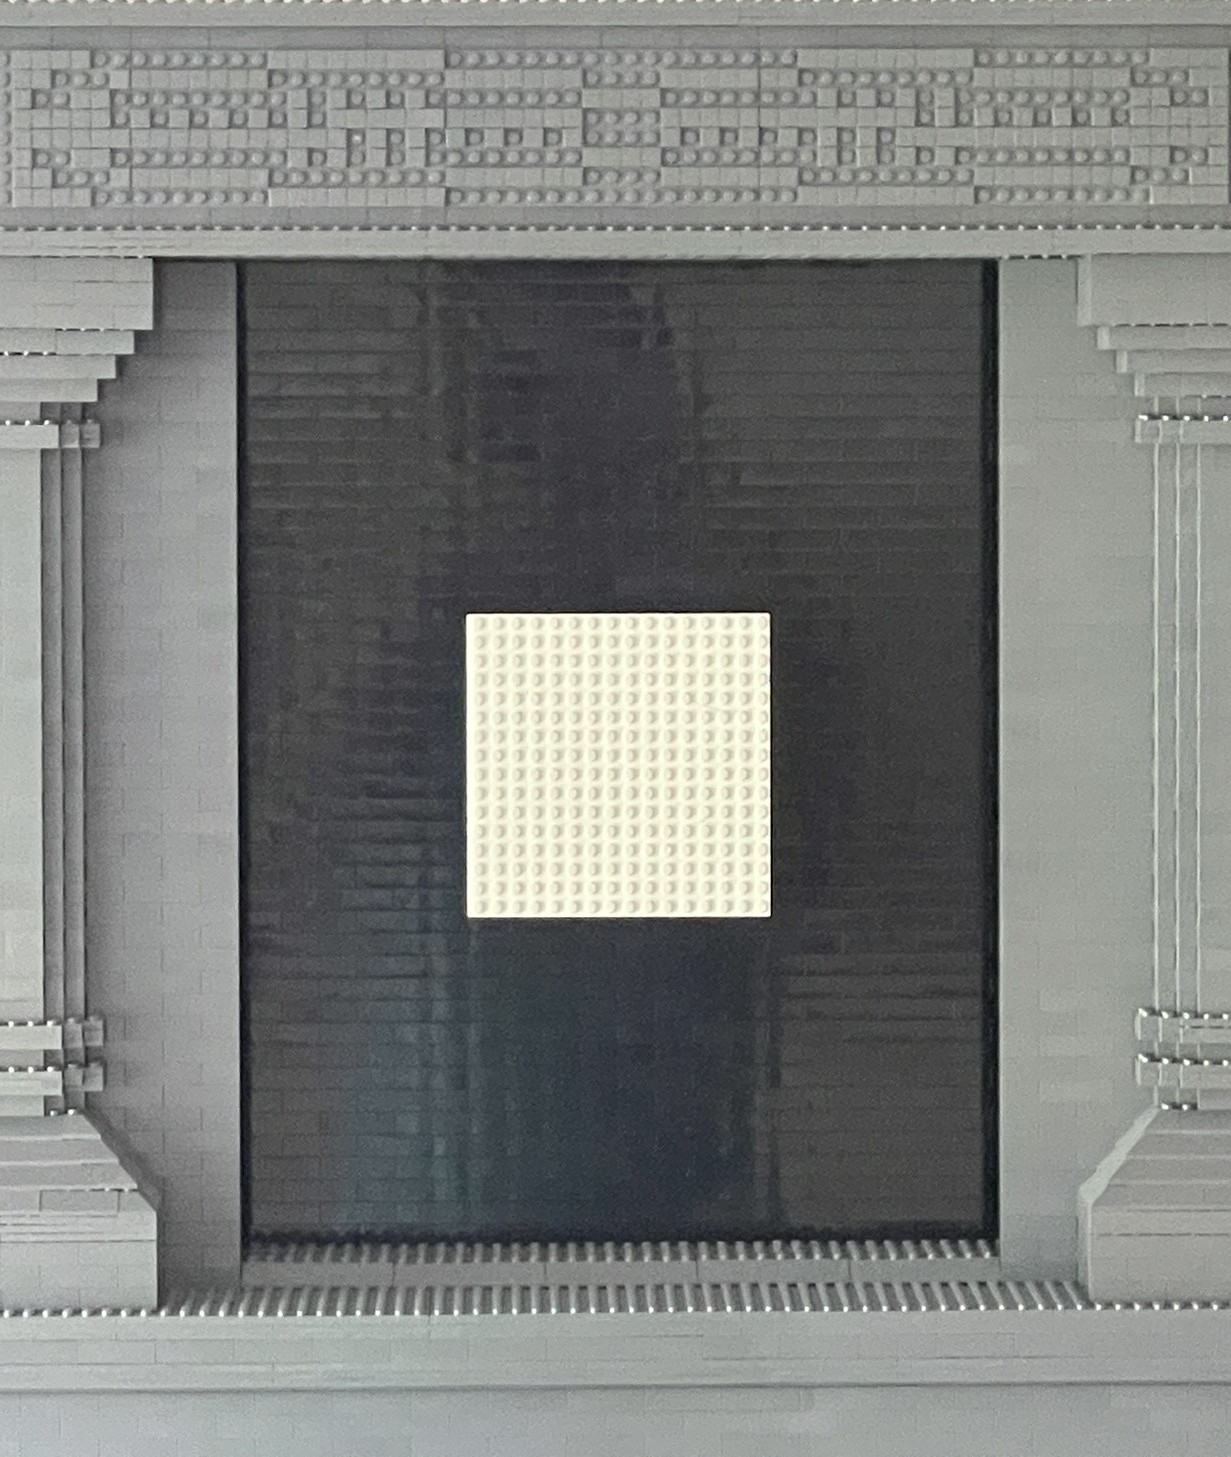
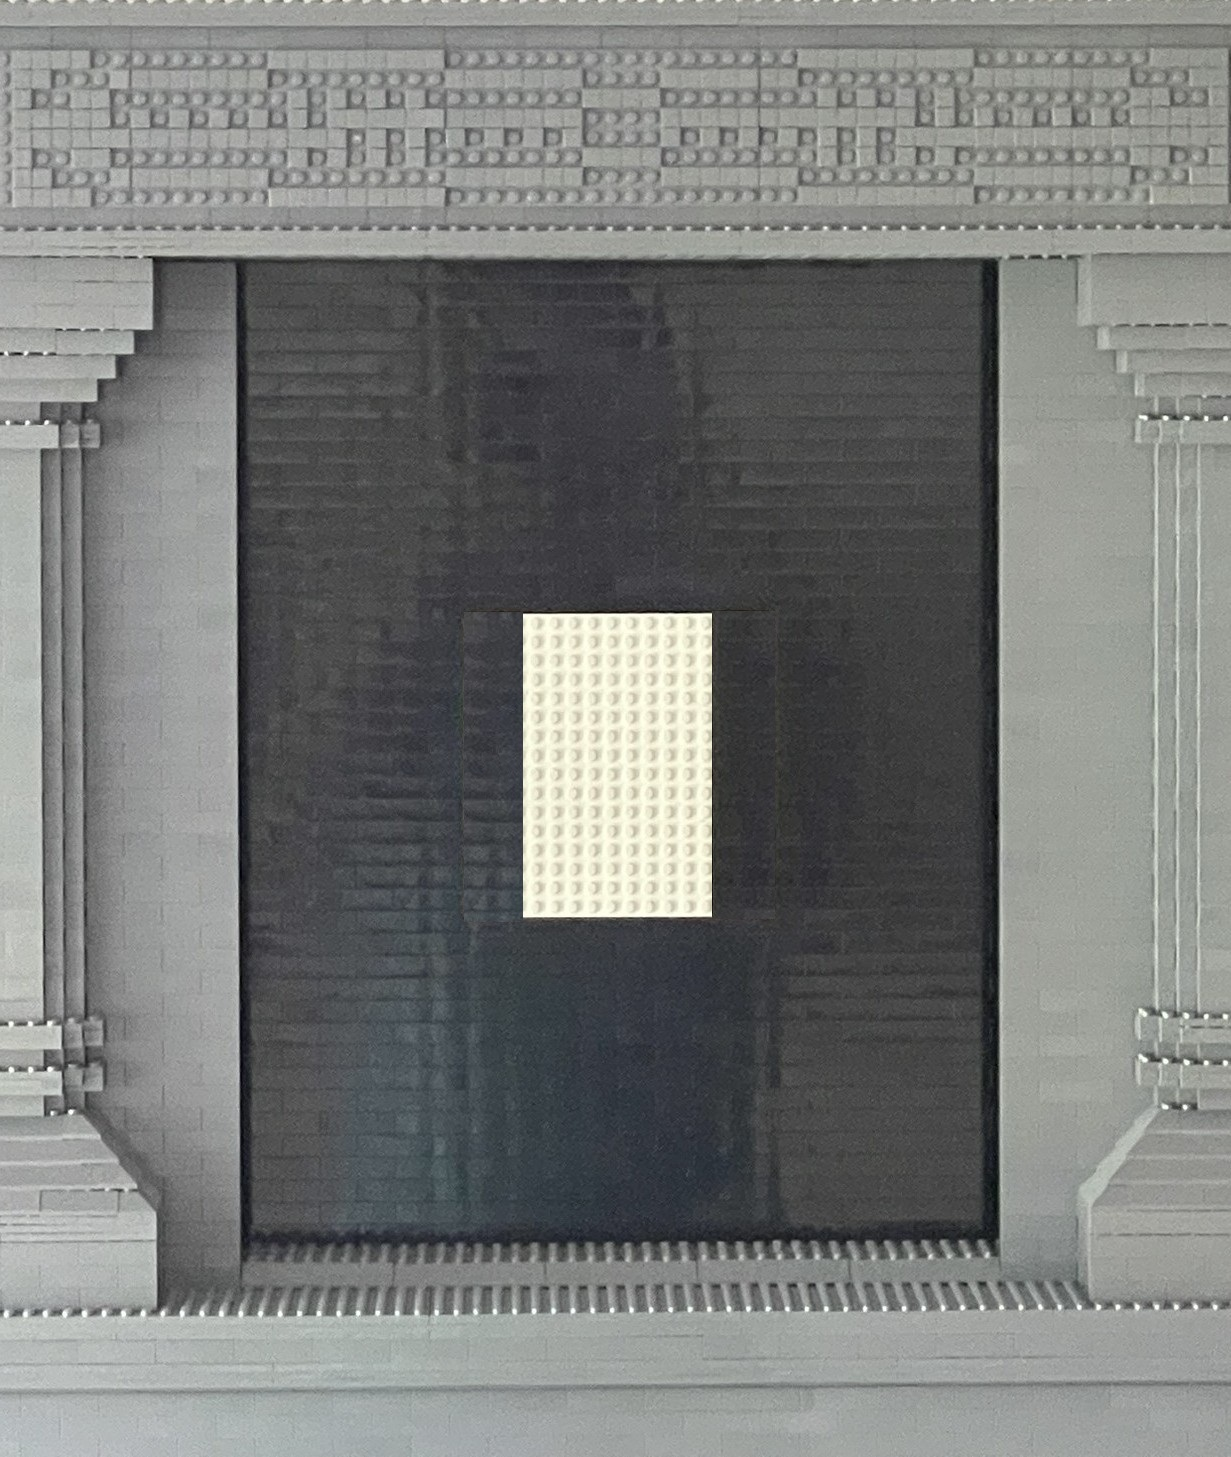
Specify & clarify gallery pages

Changed region(s): [[0.5556, 0.4015, 0.6483, 0.6486], [0.3704, 0.4015, 0.4322, 0.6486]]

diff --git a/specs/006-hall-of-faces-gallery/spec.md b/specs/006-hall-of-faces-gallery/spec.md
@@ -1,0 +1,126 @@
+# Feature Specification: Phase 006 — Hall of Faces Gallery Pages
+
+**Feature Branch**: `006-hall-of-faces-gallery`
+
+**Created**: 2026-06-05
+
+**Status**: Draft
+
+**Input**: User description: "Let's create three galleries: a public one called 'Hall of Faces', a private one called 'Hall of Nobles', and an event-specific one called 'BrickCon 2026'. Each gallery is reachable as a direct subdirectory (e.g., faceplate.me/hall-of-faces). The gallery header matches the home page with the gallery name as title, a provided description as subtitle, and 'Add your face to this gallery' as the third link back to faceplate.me with a Hall parameter. Below the header: a series of Hall.JPEG copies with 0–6 submitted mosaics composited into cubbies (2 rows × 3 columns). Gallery submissions must persist across site rebuilds."
+
+---
+
+## User Scenarios & Testing *(mandatory)*
+
+### User Story 1 — View a Gallery Page (Priority: P1)
+
+A visitor navigates directly to a gallery URL (e.g., `faceplate.me/hall-of-faces`) and sees the Hall of Faces gallery. The page shows the gallery name, its description, and a call-to-action link. Below the header, one or more composite images fill the page — each is a photograph of the physical Hall of Faces structure with up to six submitted face mosaics placed into the dark cubby alcoves (arranged in two rows of three). Unfilled cubbies show the dark alcove background. The gallery is always up to date with the latest submissions.
+
+**Why this priority**: The gallery display is the primary visitor experience and must exist before submission flows can be validated end to end.
+
+**Independent Test**: Navigate to `/hall-of-faces`. Verify the header matches the gallery name and description. Verify at least one Hall.JPEG composite appears. If submissions exist, verify they appear in the cubbies left-to-right, top-to-bottom. If no submissions exist, verify the Hall.JPEG still appears with all cubbies dark.
+
+**Acceptance Scenarios**:
+
+1. **Given** a visitor opens `/hall-of-faces`, **When** the page loads, **Then** the header shows "Hall of Faces" as the title, the gallery description as the subtitle, and "Add your face to this gallery ↗" as the third element.
+2. **Given** the gallery has N submissions, **When** the page renders, **Then** `ceil(max(N,1) / 6)` Hall.JPEG composites are shown — each with up to 6 mosaics placed in cubbies in order, unfilled cubbies showing the bare alcove.
+3. **Given** the gallery header's call-to-action link is clicked, **When** the user arrives at faceplate.me, **Then** the "Add to Group" field on the faceplate.me face-shaping sidebar is pre-filled with the gallery's slug (e.g., "hall-of-faces").
+4. **Given** multiple Hall.JPEG composites are shown, **When** a viewer scrolls down, **Then** subsequent composites continue the submission sequence (composites 1, 2, 3… fill with mosaics 1–6, 7–12, 13–18…).
+
+---
+
+### User Story 2 — Browse All Three Galleries (Priority: P2)
+
+The three galleries each have their own dedicated URL and independent content. Hall of Nobles is accessible only to visitors who know the direct URL or are given the link — it does not appear in any public index or navigation. BrickCon 2026 is accessible to attendees via a direct link distributed at the event.
+
+**Why this priority**: Each gallery must be independently routable and independently populated; this confirms the routing and gallery-config model scales to multiple galleries.
+
+**Independent Test**: Navigate to `/hall-of-faces`, `/hall-of-nobles`, and `/brickcon-2026` separately. Verify each shows its own name, description, and independent submission set. Verify `/hall-of-nobles` is not linked from any public page (header, footer, or home page navigation).
+
+**Acceptance Scenarios**:
+
+1. **Given** three galleries are configured, **When** `/hall-of-faces`, `/hall-of-nobles`, and `/brickcon-2026` are visited, **Then** each shows its own name, description, and submissions independently.
+2. **Given** Hall of Nobles is configured as unlisted, **When** a visitor browses the public home page or Hall of Faces gallery, **Then** there is no link or mention of `/hall-of-nobles`.
+3. **Given** a submission is made to "brickcon-2026," **When** the Hall of Faces gallery is viewed, **Then** the submitted mosaic does not appear there.
+
+---
+
+### User Story 3 — Submissions Survive a Rebuild (Priority: P3)
+
+A site administrator rebuilds and redeploys the Faceplate site. All gallery submissions made before the rebuild remain visible on the gallery pages after redeployment — no submissions are lost.
+
+**Why this priority**: The Phase 005 implementation stored submissions in the server filesystem inside the build output directory, which is overwritten on each deploy. This story ensures a persistence mechanism is in place before submissions accumulate.
+
+**Independent Test**: Submit a mosaic to a gallery. Trigger a full site rebuild and redeploy. Navigate to the gallery page after redeployment. Verify the previously submitted mosaic is still present.
+
+**Acceptance Scenarios**:
+
+1. **Given** one or more mosaics have been submitted to a gallery, **When** the site is rebuilt and redeployed, **Then** all previously submitted mosaics are still displayed on the gallery page.
+2. **Given** the site administrator redeploys, **When** they inspect the gallery pages, **Then** submissions made days or weeks prior are still present.
+
+---
+
+### Edge Cases
+
+- What if a gallery has zero submissions? One Hall.JPEG is still displayed with all six cubbies dark (no placeholder text, just the empty alcove photograph).
+- What if a gallery URL slug does not match any configured gallery? The page returns a "gallery not found" message rather than an error.
+- What if Hall of Nobles is accessed by someone without the direct URL? There is no entry point — the page exists at its URL but is not linked or indexed by the site.
+- What if a submission PNG is missing or corrupt? That cubby slot displays the dark alcove background, as if no submission had been made for that position.
+- What if the same person submits multiple times to the same gallery? Each submission occupies a separate cubby slot in order of submission time.
+
+---
+
+## Requirements *(mandatory)*
+
+### Functional Requirements
+
+- **FR-001**: Three gallery instances MUST be configured: "Hall of Faces" (`/hall-of-faces`, public), "Hall of Nobles" (`/hall-of-nobles`, unlisted), and "BrickCon 2026" (`/brickcon-2026`, public for attendees).
+- **FR-002**: Each gallery MUST be reachable at a top-level URL slug (e.g., `/hall-of-faces`) with no `/gallery/` prefix. The Phase 005 `/gallery/{slug}` route MAY be retained as an alias or removed.
+- **FR-003**: Each gallery page header MUST match the structural layout of the Faceplate home page header: gallery name as the page title, a gallery-specific description as the subtitle, and "Add your face to this gallery ↗" as the third element linking to `faceplate.me?hall={slug}`.
+- **FR-004**: Gallery descriptions are site-administrator–provided text, unique per gallery, stored alongside the gallery configuration.
+- **FR-005**: Hall of Nobles MUST NOT appear in any public-facing navigation, link, or index on the site. It is accessible only via its direct URL.
+- **FR-006**: The gallery display MUST render one or more copies of `Hall.JPEG` (the 2-row × 3-column Hall of Faces photograph). Each copy accommodates exactly 6 submissions in the six cubby positions. Submissions fill positions left-to-right, top-to-bottom in order of submission timestamp.
+- **FR-007**: Submitted face mosaics MUST be composited into the corresponding cubby alcoves in `Hall.JPEG` using client-side Canvas 2D — the same approach as the Phase 004/005 single-cubby overlay. Each submission PNG (already masked with the face boundary) is drawn at a calibrated position and scale into its cubby slot; shadow effects at mask edges are applied using Canvas gradients.
+- **FR-008**: Cubby positions with no submission MUST show the bare dark-alcove background from the `Hall.JPEG` photograph.
+- **FR-009**: Gallery submissions MUST be stored in a persistence layer that survives site rebuilds and redeployments. Submissions MUST NOT be stored only in the site's build output or ephemeral server filesystem. Gallery pages are server-rendered on every request so submissions appear immediately without a rebuild.
+- **FR-010**: The faceplate.me main application MUST read a `hall` URL query parameter on page load. If present, the "Add to Group" group-name field MUST be pre-filled with the value of that parameter.
+- **FR-011**: The position and scale of the mosaic composited into each cubby slot in `Hall.JPEG` MUST be calibrated per cubby (6 sets of coordinates), following the same empirical approach used for the single-cubby `Cubby.JPEG` overlay.
+
+### Key Entities
+
+- **Gallery**: A named, routed collection of submitted face mosaics. Attributes: slug (URL-safe, e.g., `hall-of-faces`), display name, description, visibility (public / unlisted).
+- **GallerySlot**: One of the six cubby positions within a `Hall.JPEG` composite image. Attributes: row (0 or 1), column (0, 1, or 2), calibrated position and scale constants (analogous to `PLATE_X`, `PLATE_Y`, `PLATE_W`, `PLATE_H` in Phase 005).
+- **GallerySubmission**: A submitted face mosaic assigned to a gallery. Attributes: gallery slug, submission timestamp, masked PNG image reference, unique identifier. Persisted externally from the build output.
+
+---
+
+## Success Criteria *(mandatory)*
+
+### Measurable Outcomes
+
+- **SC-001**: All three gallery pages load within 3 seconds on a standard broadband connection, even with 12+ Hall.JPEG composites displayed.
+- **SC-002**: A mosaic submitted to a gallery appears on the gallery page within 10 seconds of submission without a page reload.
+- **SC-003**: Zero submissions are lost across a full site rebuild and redeploy cycle, verified over at least three consecutive rebuild cycles.
+- **SC-004**: The "Add your face to this gallery" link on a gallery page correctly pre-fills the gallery name in the faceplate.me submission form 100% of the time.
+- **SC-005**: The feature works correctly in the two most recent versions of Chrome, Firefox, and Safari on desktop.
+
+---
+
+## Clarifications
+
+### Session 2026-06-05
+
+- Q: Are gallery pages server-rendered on each request or statically generated? → A: Server-rendered on every request — the gallery always reflects the latest submissions; rebuilds do not affect gallery content.
+- Q: Is Hall.JPEG mosaic compositing done server-side or client-side? → A: Client-side Canvas — the browser receives submission PNG URLs, loads Hall.JPEG and each PNG, and composites them using Canvas 2D (same approach as the Phase 004/005 single-cubby overlay).
+
+## Assumptions
+
+- `Hall.JPEG` (1923×1302 px, located at `public/images/Hall.JPEG`) is the official gallery background photograph. It contains 6 dark cubby alcoves arranged in 2 rows × 3 columns. Cubby positions and scales require empirical calibration (per FR-011); initial estimates are deferred to the planning phase.
+- "Unlisted" for Hall of Nobles means no link to it appears anywhere on the public site — it is security-by-obscurity, not password-protected. The URL is kept private by the administrator.
+- Gallery descriptions are short (1–3 sentences) and are provided by the administrator at configuration time, not by end users.
+- Persistent storage for submissions uses a first-party server-side mechanism (e.g., persistent server volume, object storage, or database) that is not wiped on redeploy. The specific storage technology is a planning decision.
+- The `hall` URL parameter on faceplate.me pre-fills the "Add to Group" field; the user may still edit it before submitting. No validation of the pre-filled value occurs until submission.
+- Submission order within a gallery is determined by timestamp; the earliest submissions fill the lowest-numbered cubby positions (top-left first).
+- Gallery pages are server-rendered on every request (Astro hybrid mode, already in use from Phase 005). The compositing runs in the browser via Canvas 2D; the server only provides the ordered list of submission PNG URLs.
+- The Phase 005 `/gallery/{slug}` routing is superseded by this spec's top-level routing. The old stub page may be redirected or removed.
+- The three initial galleries are: Hall of Faces (slug: `hall-of-faces`), Hall of Nobles (slug: `hall-of-nobles`), BrickCon 2026 (slug: `brickcon-2026`).

diff --git a/specs/006-hall-of-faces-gallery/checklists/requirements.md b/specs/006-hall-of-faces-gallery/checklists/requirements.md
@@ -1,0 +1,37 @@
+# Specification Quality Checklist: Hall of Faces Gallery Pages
+
+**Purpose**: Validate specification completeness and quality before proceeding to planning
+**Created**: 2026-06-05
+**Feature**: [spec.md](../spec.md)
+
+## Content Quality
+
+- [x] No implementation details (languages, frameworks, APIs)
+- [x] Focused on user value and business needs
+- [x] Written for non-technical stakeholders
+- [x] All mandatory sections completed
+
+## Requirement Completeness
+
+- [x] No [NEEDS CLARIFICATION] markers remain
+- [x] Requirements are testable and unambiguous
+- [x] Success criteria are measurable
+- [x] Success criteria are technology-agnostic (no implementation details)
+- [x] All acceptance scenarios are defined
+- [x] Edge cases are identified
+- [x] Scope is clearly bounded
+- [x] Dependencies and assumptions identified
+
+## Feature Readiness
+
+- [x] All functional requirements have clear acceptance criteria
+- [x] User scenarios cover primary flows
+- [x] Feature meets measurable outcomes defined in Success Criteria
+- [x] No implementation details leak into specification
+
+## Notes
+
+- FR-011 requires empirical calibration of 6 cubby positions in Hall.JPEG (1923×1302 px). Initial coordinate estimates are deferred to planning, following the same visual-overlay approach used for Cubby.JPEG in Phase 004/005.
+- FR-009 (persistent storage) is intentionally technology-agnostic; the specific mechanism (persistent volume, object storage, database) is a planning decision that must document the constitution's Principle I compliance.
+- Gallery descriptions (FR-004) are provided by the administrator. Placeholder descriptions should be included in the gallery config during implementation and replaced before launch.
+- SC-002 (mosaic appears within 10 seconds) may require a page refresh or polling mechanism — this is a planning decision.
